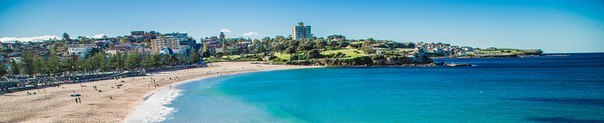
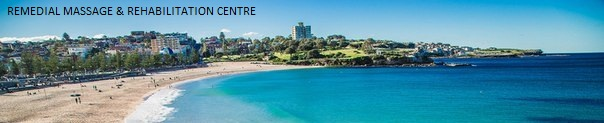
Index change

Changed region(s): [[0.0, 0.0488, 0.4172, 0.122]]

diff --git a/hot_deals.html b/hot_deals.html
@@ -32,7 +32,7 @@
    <li><a href="about.html"><span>About Us</span></a></li>
    <li class='has-sub'><a href="benefits.html"><span>Benefits of PIR & Massage</span></a>
       <ul>
-         <li><a href="benefits.html"><span>Benefits of Post - Isometric Myorelaxation</span></a></li>
+         <li><a href="benefits.html"><span>Benefits of PIR</span></a></li>
          <li class='last'><a href="why_remedial.html"><span>Types of Massage</span></a></li>
       </ul>
    </li>
@@ -47,7 +47,7 @@
    <li class='has-sub last'><a href="faq.html"><span>FAQs & Downloads</span></a>
       <ul>
          <li><a href="faq.html"><span>Frequently Asked Questions</span></a></li>
-         <li class='last'><a href="Historyformdownload.docx"><span>Download Health History Form</span></a></li>
+         <li class='last'><a href="Historyformdownload.docx"><span>Download Form</span></a></li>
       </ul>
    </li>
 </ul>
@@ -59,12 +59,8 @@
         
         <div class="col-lg-10" align="center">
             <h1 align="center">Remedial Massage & Rehabilitation Center</h1>			
-			<h2 align="center">If you want to be healthy, we can help you to reach your goals.</h2>
-			</br>
-			<h4 align="center">Why Post-Isometric Myorelaxation and Remedial Massage?</h4>
-			</br>
-            <p>The post-isometric relaxation technique begins by placing the muscle in a stretched position. Then an isometric contraction is exerted against some level of resistance. Relaxation and then gentle stretch follow as the muscle releases. This technique was applied to tight, tender muscles that are commonly associated with musculoskeletal pain. With a combination of remedial and relaxation massage elements we can stretch  all the muscles of your body and will find the point of balance of your health. </p>
-            
+			<h2 align="center">There are currently no special deals on offer.</h2>
+			
         </div>
         
     </div>

diff --git a/about.html b/about.html
@@ -24,7 +24,7 @@
 </head>
 
 <body>
-<img src="./img/yMa2IlRJOOE.jpg" alt='test' width='1350' height='250'>
+<img src="./img/z3ejz8ictSM.jpg" alt='test' width='1350' height='250'>
 
 <div id='cssmenu'>
 <ul>
@@ -32,7 +32,7 @@
    <li><a href="about.html" class='active'><span>About Us</span></a></li>
    <li class='has-sub'><a href='benefits.html'><span>Benefits of PIR & Massage</span></a>
       <ul>
-         <li><a href='benefits.html'><span>Benefits of Post - Isometric Myorelaxation</span></a></li>
+         <li><a href='benefits.html'><span>Benefits of PIR</span></a></li>
          <li class='last'><a href='why_remedial.html'><span>Types of Massage</span></a></li>
       </ul>
    </li>
@@ -48,7 +48,7 @@
    <li class='has-sub last'><a href='faq.html'><span>FAQs & Downloads</span></a>
       <ul>
          <li><a href='faq.html'><span>Frequently Asked Questions</span></a></li>
-         <li class='last'><a href='Historyformdownload.docx'><span>Download Health History Form</span></a></li>
+         <li class='last'><a href='Historyformdownload.docx'><span>Download Form</span></a></li>
       </ul>
    </li>
 </ul>

diff --git a/faq.html b/faq.html
@@ -33,7 +33,7 @@
    <li><a href="about.html"><span>About Us</span></a></li>
    <li class='has-sub'><a href='benefits.html'><span>Benefits of PIR & Massage</span></a>
       <ul>
-         <li><a href='benefits.html'><span>Benefits of Post - Isometric Myorelaxation</span></a></li>
+         <li><a href='benefits.html'><span>Benefits of PIR</span></a></li>
          <li class='last'><a href='why_remedial.html'><span>Types of Massage</span></a></li>
       </ul>
    </li>
@@ -48,7 +48,7 @@
    <li class='has-sub last' class='active'><a href='faq.html' class='active'><span>FAQs & Downloads</span></a>
       <ul>
          <li><a href='faq.html'><span>Frequently Asked Questions</span></a></li>
-         <li class='last'><a href='Historyformdownload.docx'><span>Download Health History Form</span></a></li>
+         <li class='last'><a href='Historyformdownload.docx'><span>Download Form</span></a></li>
       </ul>
    </li>
 </ul>

diff --git a/why_remedial.html b/why_remedial.html
@@ -32,7 +32,7 @@
    <li><a href="about.html"><span>About Us</span></a></li>
    <li class='has-sub' class='active'><a href='benefits.html' class='active'><span>Benefits of PIR & Massage</span></a>
       <ul>
-         <li><a href='benefits.html'><span>Benefits of Post - Isometric Myorelaxation</span></a></li>
+         <li><a href='benefits.html'><span>Benefits of PIR</span></a></li>
          <li class='last'><a href='why_remedial.html'><span>Types of Massage</span></a></li>
       </ul>
    </li>
@@ -47,7 +47,7 @@
    <li class='has-sub last'><a href='faq.html'><span>FAQs & Downloads</span></a>
       <ul>
          <li><a href='faq.html'><span>Frequently Asked Questions</span></a></li>
-         <li class='last'><a href='Historyformdownload.docx'><span>Download Health History Form</span></a></li>
+         <li class='last'><a href='Historyformdownload.docx'><span>Download Form</span></a></li>
       </ul>
    </li>
 </ul>

diff --git a/benefits.html b/benefits.html
@@ -32,7 +32,7 @@
    <li><a href="about.html"><span>About Us</span></a></li>
    <li class='has-sub'><a href='benefits.html' class='active'><span>Benefits of PIR & Massage</span></a>
       <ul>
-         <li><a href='benefits.html'><span>Benefits of Post - Isometric Myorelaxation</span></a></li>
+         <li><a href='benefits.html'><span>Benefits of PIR</span></a></li>
          <li class='last'><a href='why_remedial.html'><span>Types of Massage</span></a></li>
       </ul>
    </li>
@@ -47,7 +47,7 @@
    <li class='has-sub last'><a href='faq.html'><span>FAQs & Downloads</span></a>
       <ul>
          <li><a href='faq.html'><span>Frequently Asked Questions</span></a></li>
-         <li class='last'><a href='Historyformdownload.docx'><span>Download Health History Form</span></a></li>
+         <li class='last'><a href='Historyformdownload.docx'><span>Download Form</span></a></li>
       </ul>
    </li>
 </ul>

diff --git a/contact.html b/contact.html
@@ -32,7 +32,7 @@
    <li><a href="about.html"><span>About Us</span></a></li>
    <li class='has-sub'><a href='benefits.html'><span>Benefits of PIR & Massage</span></a>
       <ul>
-         <li><a href='benefits.html'><span>Benefits of Post - Isometric Myorelaxation</span></a></li>
+         <li><a href='benefits.html'><span>Benefits of PIR</span></a></li>
          <li class='last'><a href='why_remedial.html'><span>Types of Massage</span></a></li>
       </ul>
    </li>
@@ -47,7 +47,7 @@
    <li class='has-sub last'><a href='faq.html'><span>FAQs & Downloads</span></a>
       <ul>
          <li><a href='faq.html'><span>Frequently Asked Questions</span></a></li>
-         <li class='last'><a href='Historyformdownload.docx'><span>Download Health History Form</span></a></li>
+         <li class='last'><a href='Historyformdownload.docx'><span>Download  Form</span></a></li>
       </ul>
    </li>
 </ul>

diff --git a/services.html b/services.html
@@ -32,7 +32,7 @@
    <li><a href="about.html"><span>About Us</span></a></li>
    <li class='has-sub'><a href="benefits.html"><span>Benefits of PIR & Massage</span></a>
       <ul>
-         <li><a href="benefits.html"><span>Benefits of Post - Isometric Myorelaxation</span></a></li>
+         <li><a href="benefits.html"><span>Benefits of PIR</span></a></li>
          <li class='last'><a href="why_remedial.html"><span>Types of Massage</span></a></li>
       </ul>
    </li>
@@ -47,7 +47,7 @@
    <li class='has-sub last'><a href="faq.html"><span>FAQs & Downloads</span></a>
       <ul>
          <li><a href="faq.html"><span>Frequently Asked Questions</span></a></li>
-         <li class='last'><a href="Historyformdownload.docx"><span>Download Health History Form</span></a></li>
+         <li class='last'><a href="Historyformdownload.docx"><span>Download Form</span></a></li>
       </ul>
    </li>
 </ul>

diff --git a/styles.css b/styles.css
@@ -86,7 +86,7 @@
 #cssmenu li ul a {
   display: block;
   height: 50px;
-  font-size: 12px;
+  font-size: 14px;
   font-style: normal;
   margin: 0px;
   padding: 0px 10px 0px 15px;

diff --git a/index.php b/index.php
@@ -1,6 +1,3 @@
-<?php
-
-?>
 <!DOCTYPE html>
 <html lang="en">
 <head>
@@ -27,7 +24,7 @@
 
 <body>
 
-<img src="./img/yMa2IlRJOOE.jpg" alt='image' width='1350' height='250'>
+<img src="./img/z3ejz8ictSM.jpg" alt='image' width='1350' height='250'>
 
 <div id='cssmenu'>
 <ul>
@@ -35,7 +32,7 @@
    <li><a href="about.html"><span>About Us</span></a></li>
    <li class='has-sub'><a href="benefits.html"><span>Benefits of PIR & Massage</span></a>
       <ul>
-         <li><a href="benefits.html"><span>Benefits of Post - Isometric Myorelaxation</span></a></li>
+         <li><a href="benefits.html"><span>Benefits of PIR</span></a></li>
          <li class='last'><a href="why_remedial.html"><span>Types of Massage</span></a></li>
       </ul>
    </li>
@@ -50,7 +47,7 @@
    <li class='has-sub last'><a href="faq.html"><span>FAQs & Downloads</span></a>
       <ul>
          <li><a href="faq.html"><span>Frequently Asked Questions</span></a></li>
-         <li class='last'><a href="Historyformdownload.docx"><span>Download Health History Form</span></a></li>
+         <li class='last'><a href="Historyformdownload.docx"><span>Download Form</span></a></li>
       </ul>
    </li>
 </ul>
@@ -66,10 +63,16 @@
 			</br>
 			<h4 align="center">Why Post-Isometric Myorelaxation and Remedial Massage?</h4>
 			</br>
-            <p><font size="3">The post-isometric relaxation technique begins by placing the muscle in a stretched position. Then an isometric contraction is exerted against some level of resistance. Relaxation and then gentle stretch follow as the muscle releases. This technique was applied to tight, tender muscles that are commonly associated with musculoskeletal pain. With a combination of remedial and relaxation massage elements we can stretch  all the muscles of your body and will find the point of balance of your health. </font></p>
-            <p align="center"><a class="btn btn-primary" href="http://tompit.appointy.com">Book Your Session! &raquo;</a></p>
-        </div>
-        
+			</div>
+		<div class="container">	
+			<div class="col-lg-7" align="center">
+				<p><font size="3">The post-isometric relaxation technique begins by placing the muscle in a stretched position. Then an isometric contraction is exerted against some level of resistance. Relaxation and then gentle stretch follow as the muscle releases. This technique was applied to tight, tender muscles that are commonly associated with musculoskeletal pain. With a combination of remedial and relaxation massage elements we can stretch  all the muscles of your body and will find the point of balance of your health. </font></p>
+			</div>
+			
+			<img src="./img/i (16).jpg" alt='image'>
+		</div>
+			</br>
+			<p align="center"><a class="btn btn-primary" href="http://tompit.appointy.com">Book Your Session! &raquo;</a></p>
     </div>
 
     <hr>
@@ -83,4 +86,7 @@
 <script src="./assets/js/jquery.js"></script>
 <script src="./dist/js/bootstrap.min.js"></script>
 </body>
+<?php
+
+?>
 </html>
